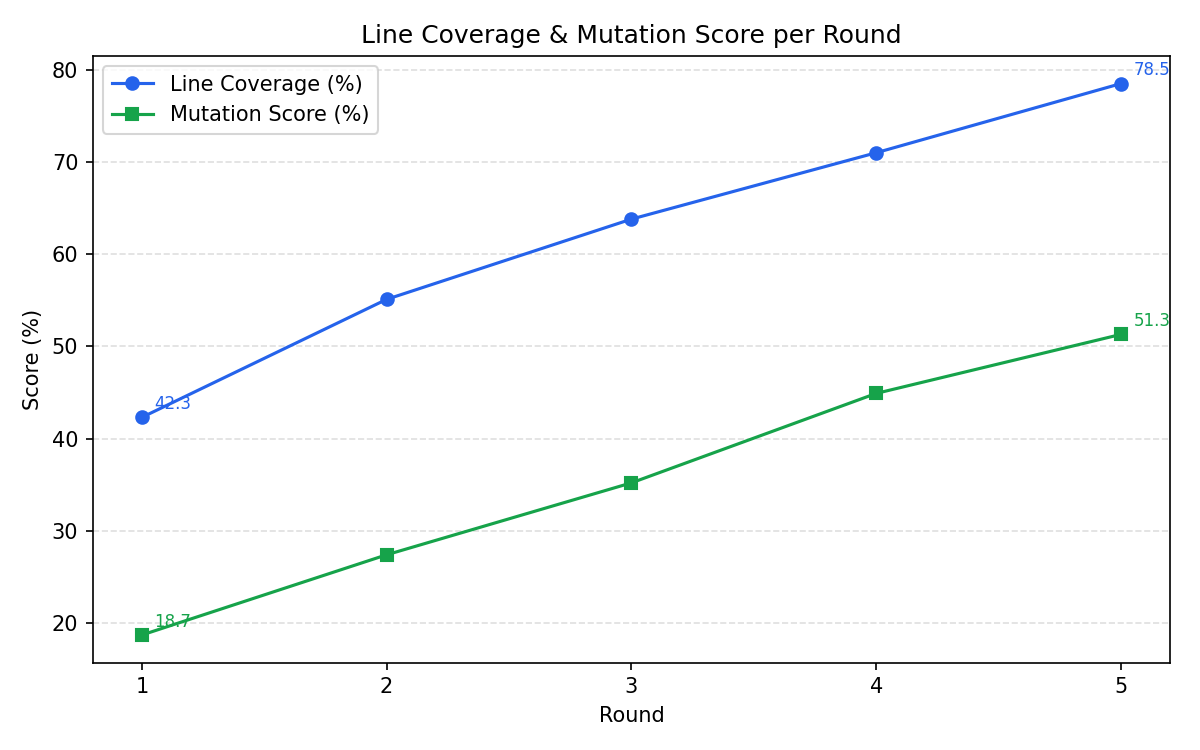
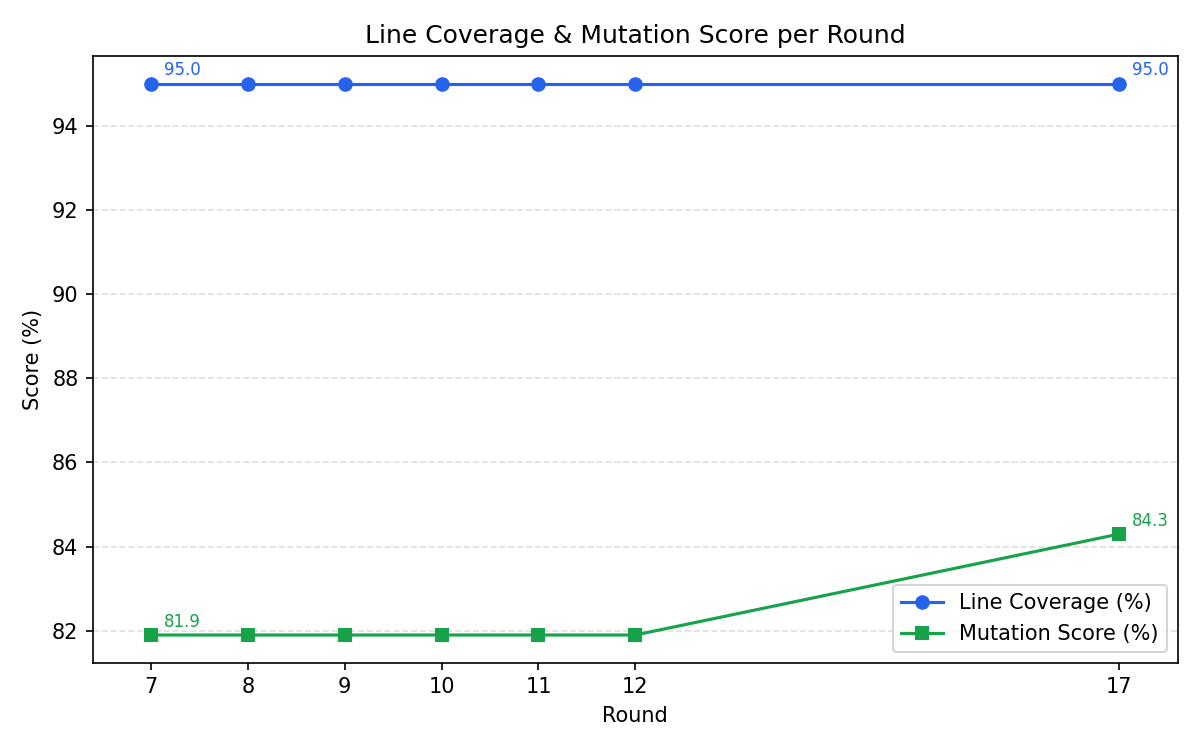
Fix round logs and chart: remove invented data, restore rewritten rows, split by scope
- rounds.csv: drop rounds 1-5 (invented T7 sample data). Restore rounds 11-13 to the
  values recorded when they ran (95/81.9, 95/81.9; round 13 moves to the StringUtils
  log): commit e9ced02 had rewritten them to 98/95.7. Add round 17, the first
  whole-project run after T10 (95 / 84.3, 242 of 287 killed).
- rounds_stringutils.csv: the single-class rounds (70 mutants), 13 to 16.
- chart.py: takes an optional CSV path and --out, so tests with sample data cannot
  overwrite the real chart.
- chart.png rebuilt from real whole-project rounds only.
- README describes both logs.
- pit-output.txt, survivors.md, toolkit/mutations.xml: round 17 outputs.

diff --git a/chart.py b/chart.py
@@ -1,3 +1,4 @@
+import argparse
 import csv
 import matplotlib.pyplot as plt
 
@@ -30,7 +31,13 @@ def label_endpoints(ax, x: list, y: list, color: str) -> None:
 
 
 def main() -> None:
-    rounds, line_cov, mut_score = load_csv("rounds.csv")
+    parser = argparse.ArgumentParser(description="Plot line coverage and mutation score per round.")
+    parser.add_argument("csv", nargs="?", default="rounds.csv",
+                        help="rounds CSV to plot (default: rounds.csv, real whole-project rounds only)")
+    parser.add_argument("--out", default="chart.png", help="output image (default: chart.png)")
+    args = parser.parse_args()
+
+    rounds, line_cov, mut_score = load_csv(args.csv)
 
     fig, ax = plt.subplots(figsize=(8, 5))
 
@@ -47,12 +54,13 @@ def main() -> None:
     ax.set_ylabel("Score (%)")
     ax.set_title("Line Coverage & Mutation Score per Round")
     ax.set_xticks(rounds)
+    ax.margins(x=0.06)
     ax.legend()
     ax.grid(axis="y", linestyle="--", alpha=0.4)
 
     fig.tight_layout()
-    fig.savefig("chart.png", dpi=150)
-    print("Saved chart.png")
+    fig.savefig(args.out, dpi=150)
+    print(f"Saved {args.out} from {args.csv}")
 
 
 if __name__ == "__main__":

diff --git a/survivors.md b/survivors.md
@@ -1,12 +1,54 @@
 # Survivors
 
-_Generated: 2026-09-26 19:06 BST_  
-_Mutants generated: 70 · Mutation score: 95.7% · Line coverage: 98%_
+_Generated: 2026-09-26 20:53 BST_  
+_Mutants generated: 287 · Mutation score: 84.3% · Line coverage: 95%_
 
-**3 mutant(s) not killed** (SURVIVED or NO_COVERAGE).
+**45 mutant(s) not killed** (SURVIVED or NO_COVERAGE).
 
 | File | Line | Class.Method | Status | Description |
 |------|------|--------------|--------|-------------|
+| DateRangeUtils.java | 70 | `com.example.toolkit.DateRangeUtils.expand` | SURVIVED | changed conditional boundary |
+| DateRangeUtils.java | 81 | `com.example.toolkit.DateRangeUtils.splitIntoChunks` | SURVIVED | changed conditional boundary |
+| MoneyUtils.java | 26 | `com.example.toolkit.MoneyUtils.round` | SURVIVED | changed conditional boundary |
+| MoneyUtils.java | 57 | `com.example.toolkit.MoneyUtils.split` | SURVIVED | changed conditional boundary |
+| MoneyUtils.java | 61 | `com.example.toolkit.MoneyUtils.split` | NO_COVERAGE | removed negation |
+| MoneyUtils.java | 135 | `com.example.toolkit.MoneyUtils.clamp` | SURVIVED | changed conditional boundary |
+| MoneyUtils.java | 136 | `com.example.toolkit.MoneyUtils.clamp` | SURVIVED | changed conditional boundary |
+| MoneyUtils.java | 137 | `com.example.toolkit.MoneyUtils.clamp` | SURVIVED | changed conditional boundary |
+| SimpleCache.java | 98 | `com.example.toolkit.SimpleCache.size` | SURVIVED | negated conditional |
+| SimpleCache.java | 99 | `com.example.toolkit.SimpleCache.lambda$1` | NO_COVERAGE | replaced boolean return with false for com/example/toolkit/SimpleCache::lambda$1 |
+| SimpleCache.java | 99 | `com.example.toolkit.SimpleCache.lambda$1` | NO_COVERAGE | replaced boolean return with true for com/example/toolkit/SimpleCache::lambda$1 |
+| SimpleCache.java | 106 | `com.example.toolkit.SimpleCache.isEmpty` | NO_COVERAGE | replaced boolean return with true for com/example/toolkit/SimpleCache::isEmpty |
+| SimpleCache.java | 124 | `com.example.toolkit.SimpleCache.refresh` | NO_COVERAGE | negated conditional |
+| SimpleCache.java | 124 | `com.example.toolkit.SimpleCache.refresh` | NO_COVERAGE | negated conditional |
+| SimpleCache.java | 142 | `com.example.toolkit.SimpleCache.isExpired` | SURVIVED | replaced boolean return with false for com/example/toolkit/SimpleCache::isExpired |
+| SimpleCache.java | 147 | `com.example.toolkit.SimpleCache.isExpiredAt` | SURVIVED | replaced boolean return with false for com/example/toolkit/SimpleCache::isExpiredAt |
 | StringUtils.java | 78 | `com.example.toolkit.StringUtils.repeat` | SURVIVED | changed conditional boundary |
 | StringUtils.java | 88 | `com.example.toolkit.StringUtils.leftPad` | SURVIVED | changed conditional boundary |
 | StringUtils.java | 97 | `com.example.toolkit.StringUtils.rightPad` | SURVIVED | changed conditional boundary |
+| Validators.java | 34 | `com.example.toolkit.Validators.isInteger` | NO_COVERAGE | replaced boolean return with true for com/example/toolkit/Validators::isInteger |
+| Validators.java | 70 | `com.example.toolkit.Validators.isPostalCa` | NO_COVERAGE | negated conditional |
+| Validators.java | 70 | `com.example.toolkit.Validators.isPostalCa` | NO_COVERAGE | negated conditional |
+| Validators.java | 70 | `com.example.toolkit.Validators.isPostalCa` | NO_COVERAGE | replaced boolean return with false for com/example/toolkit/Validators::isPostalCa |
+| Validators.java | 70 | `com.example.toolkit.Validators.isPostalCa` | NO_COVERAGE | replaced boolean return with true for com/example/toolkit/Validators::isPostalCa |
+| Validators.java | 71 | `com.example.toolkit.Validators.isPostalUk` | NO_COVERAGE | negated conditional |
+| Validators.java | 71 | `com.example.toolkit.Validators.isPostalUk` | NO_COVERAGE | negated conditional |
+| Validators.java | 71 | `com.example.toolkit.Validators.isPostalUk` | NO_COVERAGE | replaced boolean return with false for com/example/toolkit/Validators::isPostalUk |
+| Validators.java | 71 | `com.example.toolkit.Validators.isPostalUk` | NO_COVERAGE | replaced boolean return with true for com/example/toolkit/Validators::isPostalUk |
+| Validators.java | 77 | `com.example.toolkit.Validators.isCreditCard` | NO_COVERAGE | replaced boolean return with true for com/example/toolkit/Validators::isCreditCard |
+| Validators.java | 84 | `com.example.toolkit.Validators.isCreditCard` | SURVIVED | changed conditional boundary |
+| Validators.java | 86 | `com.example.toolkit.Validators.isCreditCard` | SURVIVED | Replaced integer addition with subtraction |
+| Validators.java | 116 | `com.example.toolkit.Validators.isIdentifier` | NO_COVERAGE | replaced boolean return with true for com/example/toolkit/Validators::isIdentifier |
+| Validators.java | 124 | `com.example.toolkit.Validators.inRange` | SURVIVED | changed conditional boundary |
+| Validators.java | 124 | `com.example.toolkit.Validators.inRange` | SURVIVED | changed conditional boundary |
+| Validators.java | 128 | `com.example.toolkit.Validators.inRange` | NO_COVERAGE | changed conditional boundary |
+| Validators.java | 128 | `com.example.toolkit.Validators.inRange` | NO_COVERAGE | changed conditional boundary |
+| Validators.java | 128 | `com.example.toolkit.Validators.inRange` | NO_COVERAGE | negated conditional |
+| Validators.java | 128 | `com.example.toolkit.Validators.inRange` | NO_COVERAGE | negated conditional |
+| Validators.java | 128 | `com.example.toolkit.Validators.inRange` | NO_COVERAGE | replaced boolean return with false for com/example/toolkit/Validators::inRange |
+| Validators.java | 128 | `com.example.toolkit.Validators.inRange` | NO_COVERAGE | replaced boolean return with true for com/example/toolkit/Validators::inRange |
+| Validators.java | 133 | `com.example.toolkit.Validators.hasLength` | NO_COVERAGE | negated conditional |
+| Validators.java | 133 | `com.example.toolkit.Validators.hasLength` | NO_COVERAGE | replaced boolean return with false for com/example/toolkit/Validators::hasLength |
+| Validators.java | 133 | `com.example.toolkit.Validators.hasLength` | NO_COVERAGE | replaced boolean return with true for com/example/toolkit/Validators::hasLength |
+| Validators.java | 134 | `com.example.toolkit.Validators.hasLength` | SURVIVED | changed conditional boundary |
+| Validators.java | 134 | `com.example.toolkit.Validators.hasLength` | SURVIVED | changed conditional boundary |

diff --git a/README.md b/README.md
@@ -15,7 +15,8 @@ Key files:
 | [`toolkit/BASELINE.md`](toolkit/BASELINE.md) | Mutation-coverage snapshot recorded before any improvement rounds |
 | [`run_round.sh`](run_round.sh) | One-command script: runs PIT, copies `mutations.xml`, and regenerates `survivors.md` + `rounds.csv` |
 | [`survivors.md`](survivors.md) | Latest list of surviving mutants the test suite has not yet killed |
-| [`rounds.csv`](rounds.csv) | Round-by-round log of line coverage and mutation score |
+| [`rounds.csv`](rounds.csv) | Round-by-round log of line coverage and mutation score. **Whole project only** (287 mutants), so every row is comparable |
+| [`rounds_stringutils.csv`](rounds_stringutils.csv) | The T10 rounds on `StringUtils` alone (70 mutants). Kept apart because a single-class score is not comparable with the whole-project score |
 
 ---
 
@@ -75,7 +76,7 @@ To regenerate the progress chart at any time:
 python chart.py
 ```
 
-This reads [`rounds.csv`](rounds.csv) and writes `chart.png` (requires `matplotlib`).
+This reads [`rounds.csv`](rounds.csv) and writes `chart.png` (requires `matplotlib`). To plot another log, pass its path: `python chart.py rounds_stringutils.csv --out stringutils.png`.
 
 ---
 
